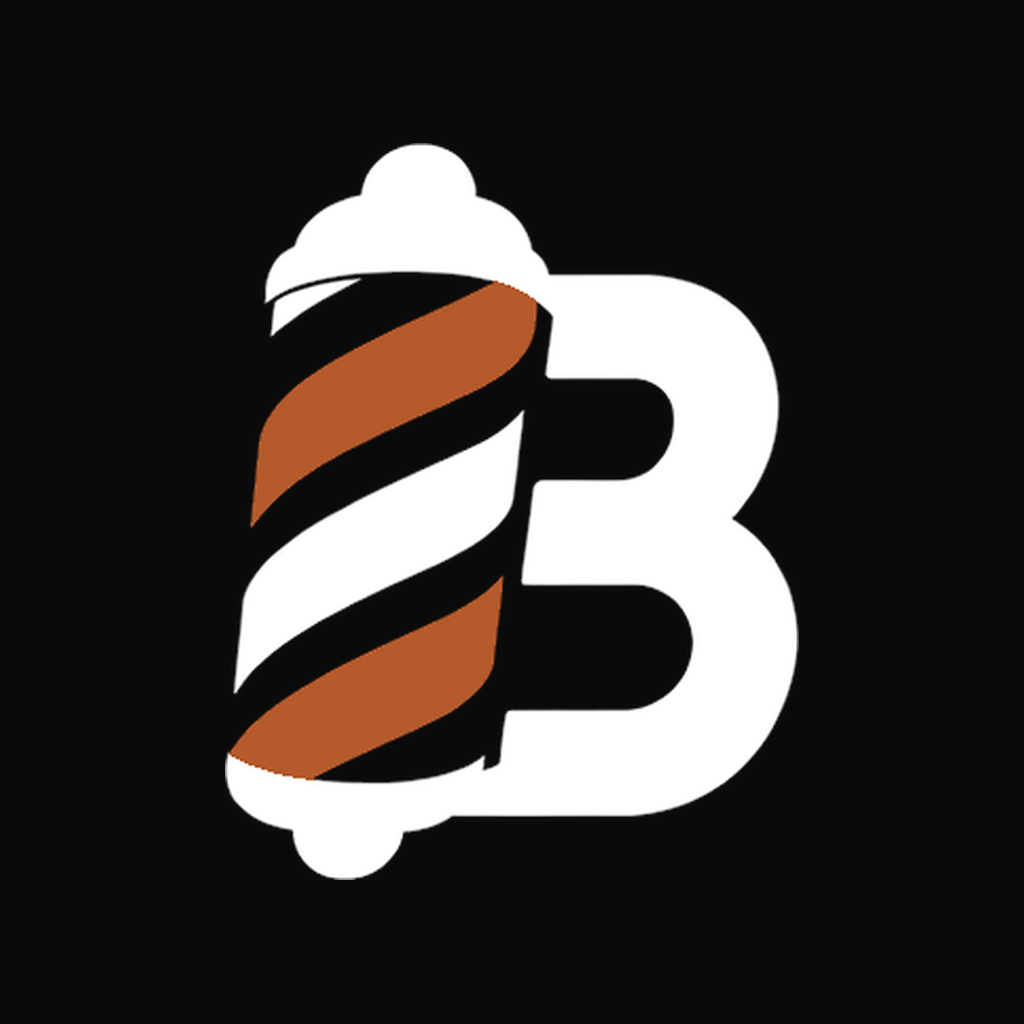
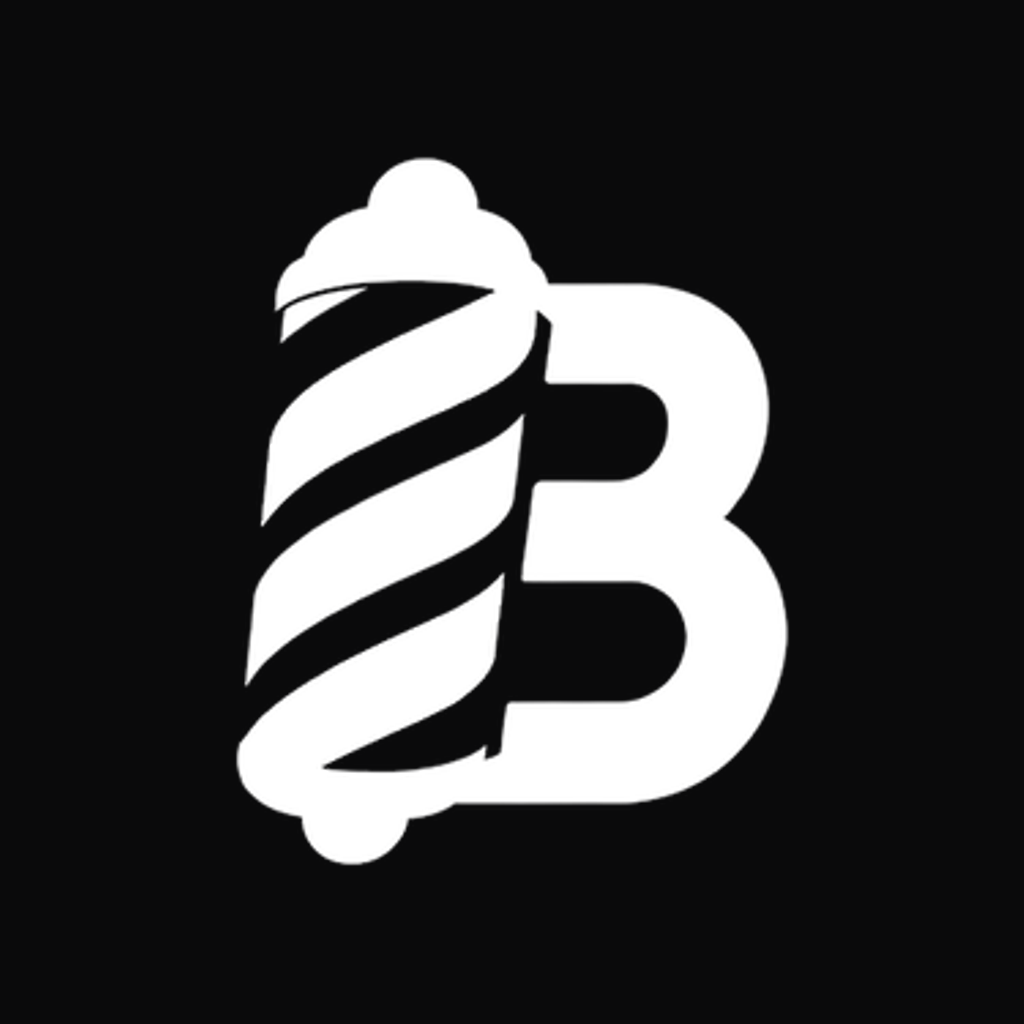
fix(android): deixar icone do cliente totalmente branco

diff --git a/docs/arquitetura/mobile-android.md b/docs/arquitetura/mobile-android.md
@@ -105,4 +105,4 @@ Esquema `barzzo://cliente/<rota>` e `barzzo://parceiro/<rota>`. Links de e-mail 
 - Mercado Pago no WebView: o fluxo de cartão do Parceiro funciona por API; o Checkout Pro por redirecionamento (`criar-preferencia`) volta para a URL web e precisa de App Link para retornar ao app.
 - iOS fica para uma fase futura (mesma base Capacitor).
 - A marca web usa `public/marca/barzzo-logo-claro.webp` em tema claro e `public/marca/barzzo-logo-escuro.webp` em tema escuro. Os favicons e ícones PWA ficam em `public/`.
-- Cliente e Parceiro usam o mesmo monograma Barzzo branco e bronze sobre fundo escuro. O splash Android usa o logotipo branco completo com transparência real, centralizado dentro da área segura sobre fundo preto definido pelo tema nativo. A origem oficial atualizada dos arquivos é `D:/Barbearia/barzzo-assets-web-mobile-v2/barzzo-assets`; ao atualizar, sincronizar as variantes web, PWA, Android e splash nos dois apps.
+- O ícone Android do Cliente usa o monograma Barzzo totalmente branco, sem detalhes em bronze, sobre fundo escuro. O ícone do Parceiro usa o monograma branco e bronze sobre fundo escuro. O splash Android dos dois apps usa o logotipo branco e bronze completo com transparência real, centralizado dentro da área segura sobre fundo escuro definido pelo tema nativo. A origem oficial atualizada dos arquivos é `D:/Barbearia/barzzo-assets-web-mobile-v2/barzzo-assets`; o gerador aplica a variante monocromática branca somente ao ícone nativo do Cliente.

diff --git a/AGENTS.md b/AGENTS.md
@@ -108,6 +108,12 @@ Regras:
 - Toda alteração em funcionalidade presente nas duas plataformas deve avaliar e atualizar Web e Mobile na mesma tarefa. Antes de concluir, confira a paridade nas duas versões; não presuma que publicar ou empacotar uma delas atualize a outra.
 - Só crie ou mantenha comportamento diferente entre Web e Mobile quando o usuário pedir explicitamente essa diferença.
 
+### Identidade do ícone Android
+
+- O ícone de lançamento do app Cliente deve usar o monograma Barzzo totalmente branco, sem detalhes em bronze, sobre fundo escuro.
+- Mantenha essa regra em `apps/cliente/assets/icon-foreground.png`, `apps/cliente/assets/icon-only.png` e em todos os recursos Android gerados por `scripts/gerar-icones-android.mjs`.
+- Antes de concluir uma alteração no ícone, confira o PNG do APK compilado; não considere apenas o arquivo de origem nem reutilize a variante colorida do Parceiro.
+
 ## 5. Papéis dos agentes
 
 Os papéis oficiais estão em `AGENTES.md`:
